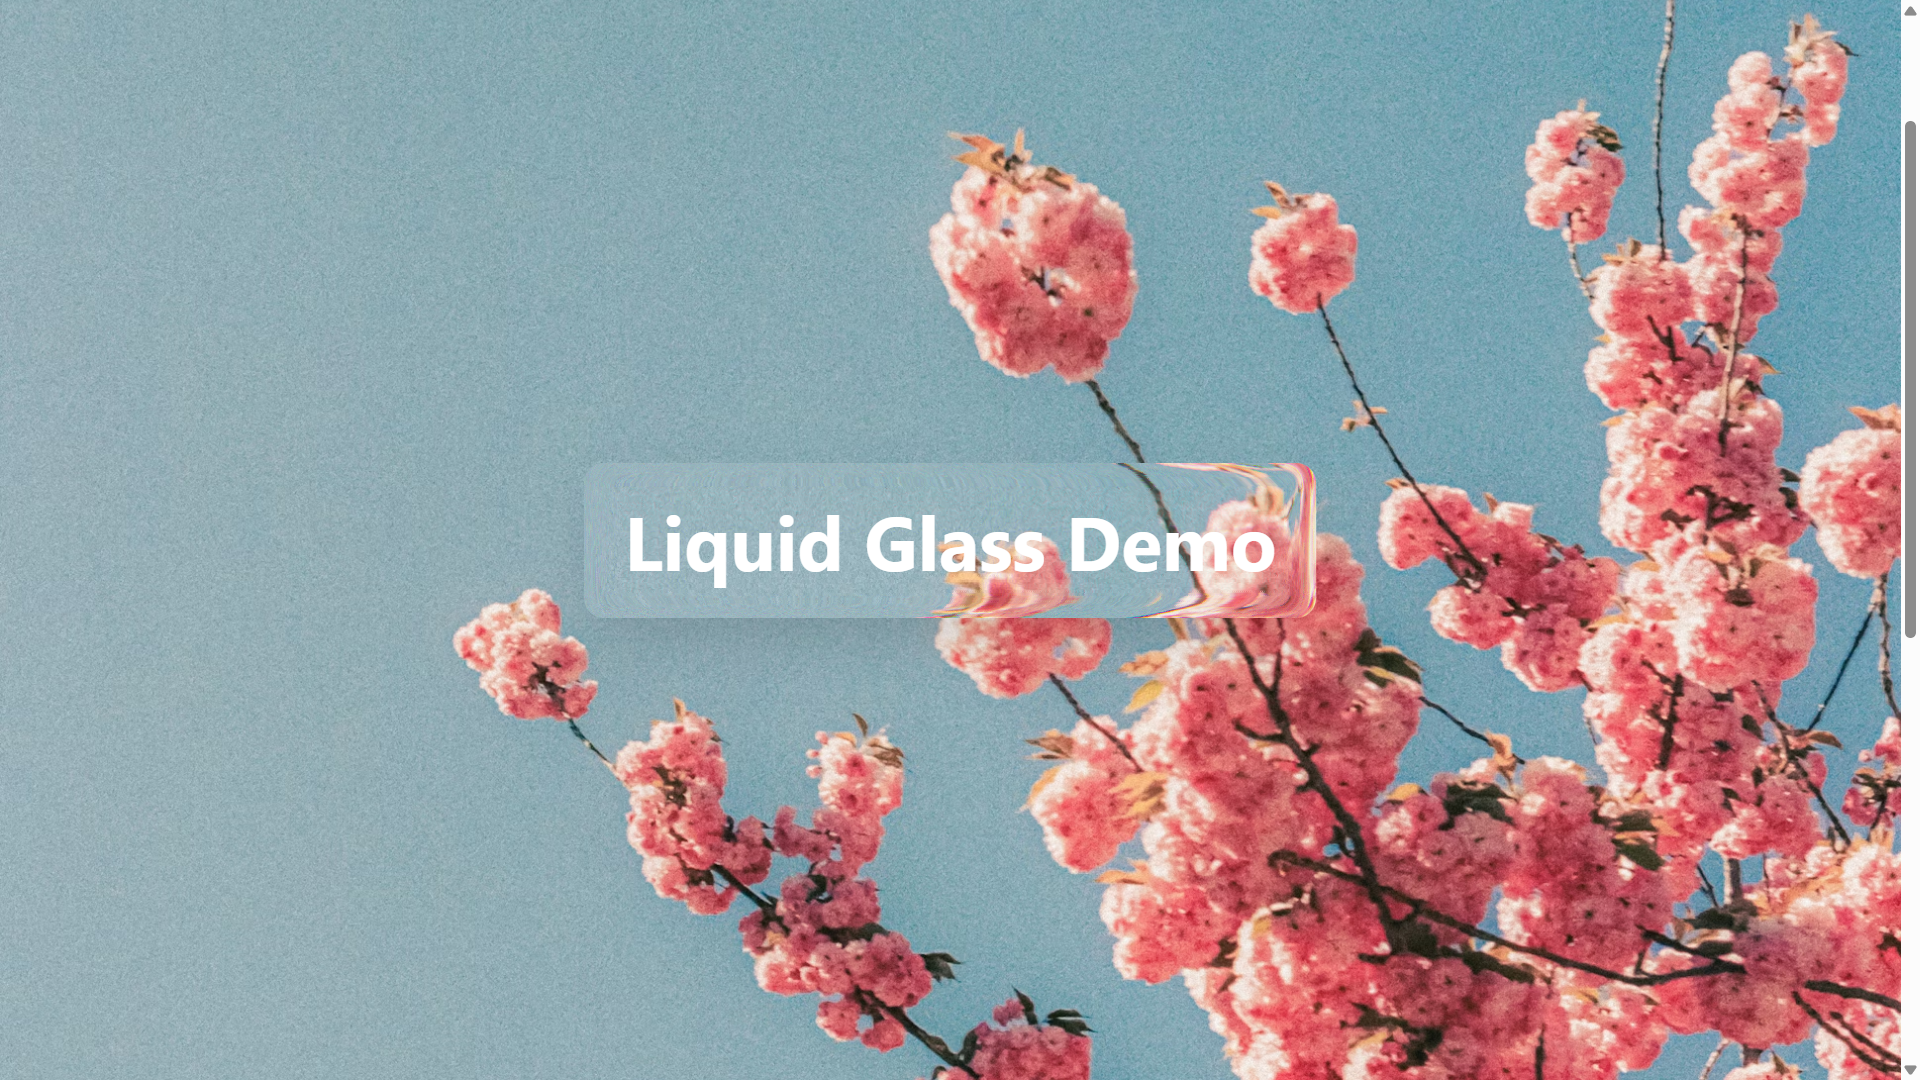
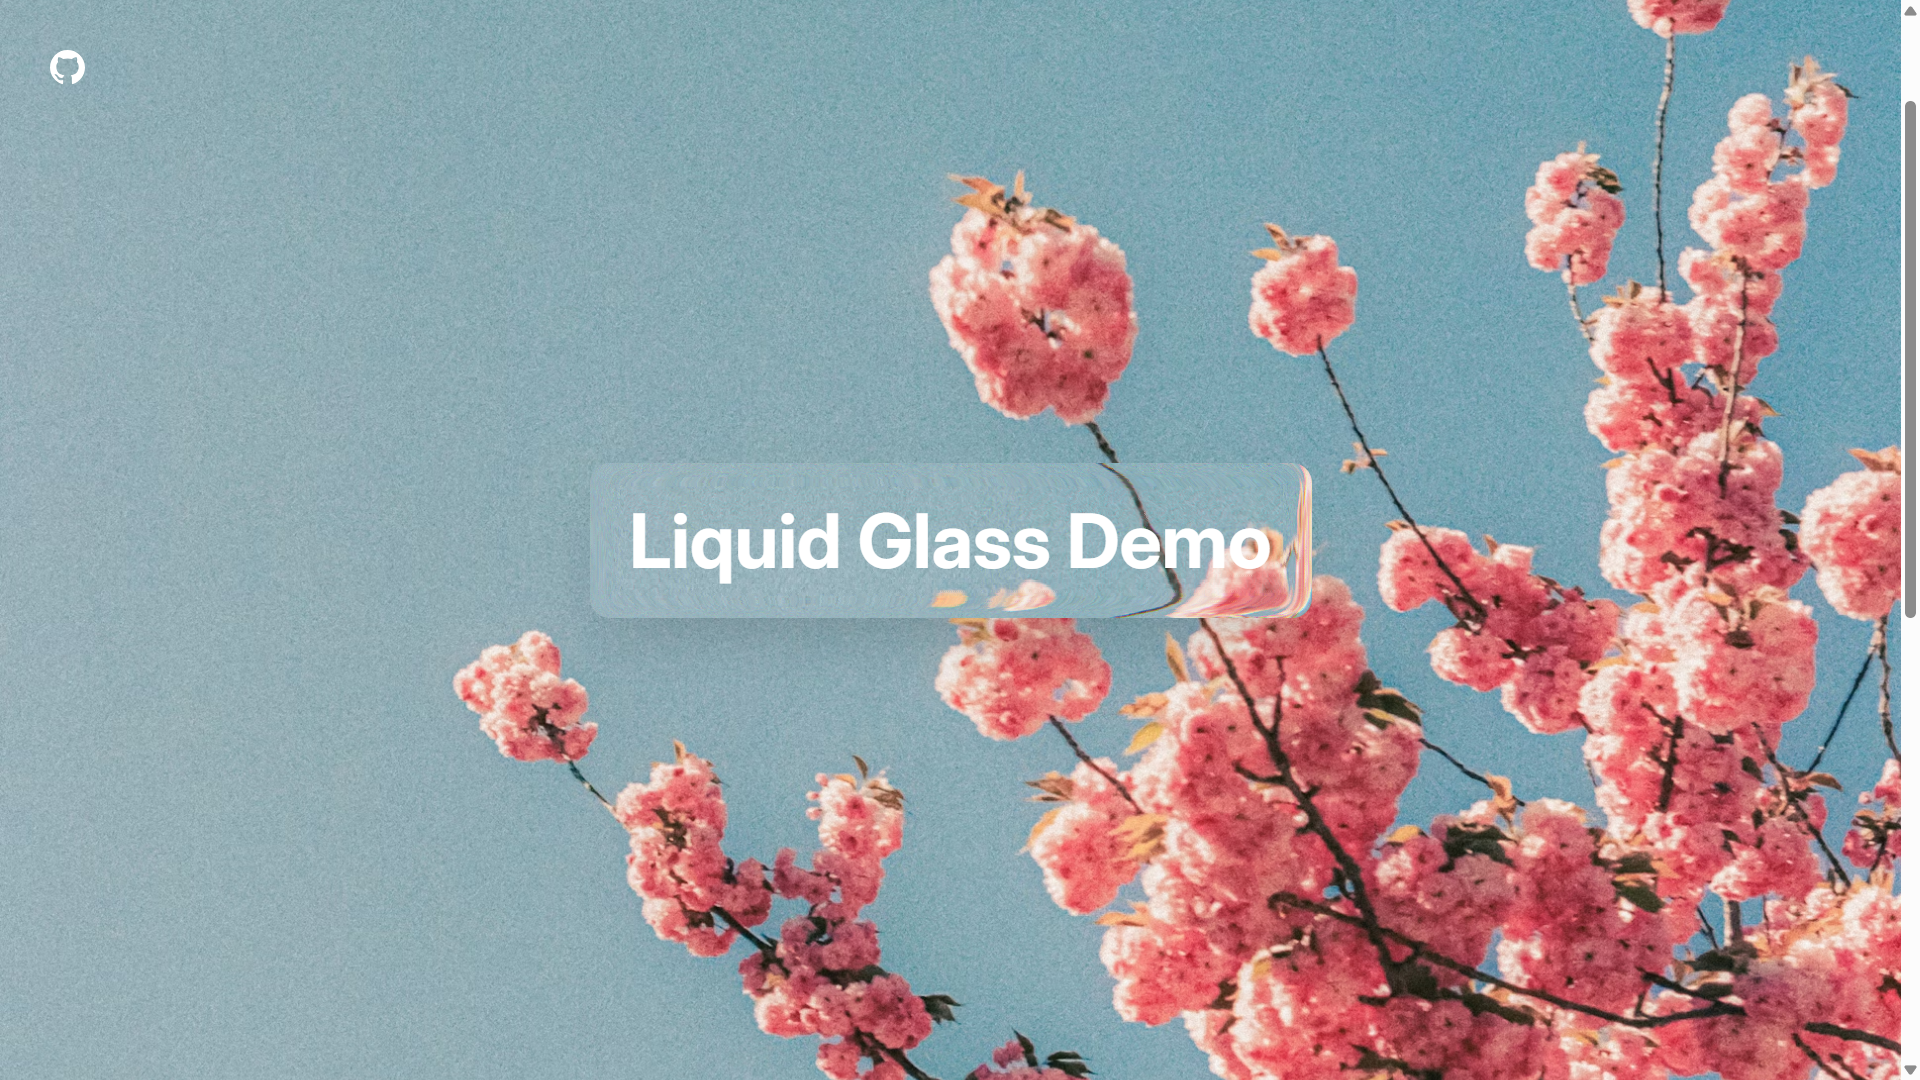
Add scroll smooth

diff --git a/index.html b/index.html
@@ -3,7 +3,12 @@
   <head>
     <meta charset="UTF-8" />
     <link rel="icon" type="image/svg+xml" href="/vite.svg" />
-    <link rel="stylesheet" href="src/style.css" />
+    <link rel="preconnect" href="https://fonts.googleapis.com" />
+    <link rel="preconnect" href="https://fonts.gstatic.com" crossorigin />
+    <link
+      href="https://fonts.googleapis.com/css2?family=Inter:ital,opsz,wght@0,14..32,100..900;1,14..32,100..900&display=swap"
+      rel="stylesheet"
+    />
     <meta name="viewport" content="width=device-width, initial-scale=1.0" />
     <title>Liquid Glass</title>
   </head>
@@ -133,5 +138,7 @@
         </div>
       </div>
     </div>
+
+    <script type="module" src="/src/main.js"></script>
   </body>
 </html>

diff --git a/src/main.js b/src/main.js
@@ -1,0 +1,9 @@
+import Lenis from "lenis";
+import "./style.css";
+import "lenis/dist/lenis.css";
+
+// Initialize Lenis
+const lenis = new Lenis({
+  autoRaf: true,
+  easing: (t) => 1 - Math.pow(1 - t, 3),
+});

diff --git a/src/style.css b/src/style.css
@@ -1,5 +1,9 @@
 @import "tailwindcss";
 
+@theme {
+  --font-sans: "Inter", sans-serif;
+}
+
 .lg-filter-utils {
   height: 100%;
   width: 100%;
